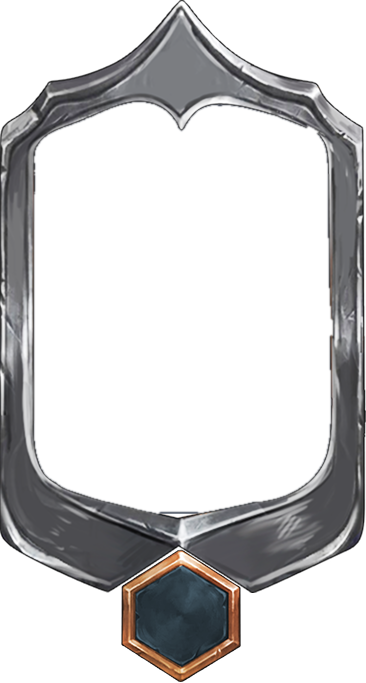
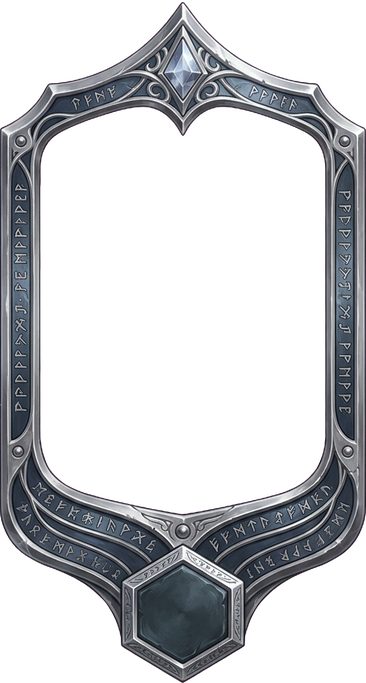
upd(web): rich common frame, legendary glow and skin splash art on the official shop

Changed region(s): [[0.0, 0.0, 1.0, 1.0]]

diff --git a/ld/index.html b/ld/index.html
@@ -152,6 +152,42 @@ section { position: relative; padding: 72px 0 40px; scroll-margin-top: 72px; }
 .top3 .skin .gcard { width: min(100%, 168px); } .top3 .skin.leg .gcard { width: min(100%, 196px); }
 .commons .skin .gcard { width: min(100%, 112px); }
 .skin:hover .gcard { transform: translateY(-5px); }
+.skin[role="button"] { cursor: pointer; }
+.skin[role="button"]:focus-visible { outline: none; } .skin[role="button"]:focus-visible .nm { text-decoration: underline; text-underline-offset: 4px; }
+.skin .see { margin-top: 6px; font: 12px var(--body); color: var(--copper-hi); opacity: 0; transition: opacity .2s; }
+.skin:hover .see, .skin:focus-visible .see { opacity: 1; }
+/* легендарный: за рамкой медленно вращаются золотые лучи и дышит свечение, по картинке пробегает блик */
+.skin.leg .gcard { isolation: isolate; }
+.skin.leg .gcard::before { content: ''; position: absolute; left: 50%; top: 44%; width: 210%; aspect-ratio: 1; z-index: -1; pointer-events: none;
+  background: url(img/fx_rays_gold.png) center / contain no-repeat; animation: legrays 26s linear infinite; opacity: 1; filter: brightness(1.35); }
+.skin.leg .gcard::after { content: ''; position: absolute; left: 50%; top: 46%; width: 150%; aspect-ratio: 1; z-index: -1; pointer-events: none; border-radius: 50%;
+  background: radial-gradient(closest-side, rgba(255,210,110,.85), rgba(255,150,40,.32) 55%, transparent 76%); animation: legglow 2.8s ease-in-out infinite alternate; }
+.skin.leg .gcard .fr { animation: legrim 2.8s ease-in-out infinite alternate; }
+@keyframes legrim { from { filter: drop-shadow(0 0 6px rgba(255,200,90,.7)) drop-shadow(0 10px 18px rgba(0,0,0,.7)); } to { filter: drop-shadow(0 0 14px rgba(255,205,100,1)) drop-shadow(0 0 30px rgba(255,150,40,.7)); } }
+.skin.leg .gcard .art > i::before { content: ''; position: absolute; inset: -20% -70%; z-index: 2; pointer-events: none; mix-blend-mode: screen;
+  background: linear-gradient(105deg, transparent 42%, rgba(255,226,160,.45) 48%, rgba(255,250,235,.9) 50%, rgba(255,226,160,.45) 52%, transparent 58%);
+  transform: translateX(-60%); animation: legshine 5s ease-in-out infinite; }
+@keyframes legrays { from { transform: translate(-50%, -50%) rotate(0); } to { transform: translate(-50%, -50%) rotate(360deg); } }
+@keyframes legglow { from { opacity: .5; transform: translate(-50%, -50%) scale(.9); } to { opacity: 1; transform: translate(-50%, -50%) scale(1.06); } }
+@keyframes legshine { 0%, 55% { transform: translateX(-60%); } 80%, 100% { transform: translateX(60%); } }
+
+/* ---------- окно с артом скина ---------- */
+.sk-overlay { position: fixed; inset: 0; z-index: 110; display: grid; place-items: center; padding: 16px; background: rgba(3,5,9,.86); opacity: 0; transition: opacity .25s; }
+.sk-overlay.open { opacity: 1; }
+.sk-modal { position: relative; width: min(940px, 100%); max-height: calc(100vh - 32px); overflow: auto; border: 26px solid transparent; border-image: url(img/ld_window.png) 110 fill / 38px stretch;
+  transform: translateY(14px) scale(.98); transition: transform .3s; }
+.sk-overlay.open .sk-modal { transform: none; }
+.sk-modal[data-r="legendary"] { filter: drop-shadow(0 0 22px rgba(242,193,78,.45)); }
+.sk-art { position: relative; aspect-ratio: 16 / 9; margin: -6px -6px 0; overflow: hidden; background: #0b0f16; }
+.sk-art img { width: 100%; height: 100%; object-fit: cover; display: block; animation: skzoom 12s ease-out both; }
+.sk-art::after { content: ''; position: absolute; inset: 0; background: linear-gradient(0deg, rgba(14,17,24,.95) 0%, rgba(14,17,24,0) 34%); pointer-events: none; }
+@keyframes skzoom { from { transform: scale(1.08); } to { transform: scale(1); } }
+.sk-info { position: relative; display: flex; align-items: flex-end; justify-content: space-between; gap: 18px; flex-wrap: wrap; margin-top: -86px; padding: 0 14px 6px; }
+.sk-info .rar { font: 13px var(--body); letter-spacing: .14em; text-transform: uppercase; }
+.sk-info h3 { margin: 4px 0 4px; font: 40px/1 var(--display); font-weight: 400; color: #fff6e0; text-shadow: 0 2px 0 #000, 0 0 18px rgba(0,0,0,.8); }
+.sk-info p { margin: 0; color: #d7d0c0; font-size: 15px; text-shadow: 0 1px 2px #000; }
+.sk-close { position: absolute; right: 2px; top: 2px; z-index: 3; width: 38px; height: 38px; border-radius: 50%; border: 1px solid rgba(214,189,143,.4); cursor: pointer; font-size: 24px; line-height: 1; color: var(--cream); background: rgba(6,8,13,.75); }
+@media (prefers-reduced-motion: reduce) { .skin.leg .gcard::before, .skin.leg .gcard::after, .skin.leg .gcard .art > i::before, .skin.leg .gcard .fr, .sk-art img { animation: none; } }
 .skin .nm { margin-top: 10px; font: 17px/1.2 var(--display); color: #fff6e0; }
 .commons .skin .nm { font-size: 15px; }
 .skin .un { margin-top: 2px; font-size: 13px; color: var(--muted); }
@@ -186,8 +222,9 @@ section { position: relative; padding: 72px 0 40px; scroll-margin-top: 72px; }
 .gcard[data-r="legendary"] { --cp: polygon(41.9% 17.2%, 30.7% 18.5%, 24.7% 19.7%, 20.3% 21.0%, 17.8% 22.2%, 15.6% 23.5%, 14.2% 24.7%, 13.2% 26.0%, 12.6% 27.2%, 12.1% 28.5%, 12.1% 29.8%, 11.8% 31.0%, 11.8% 32.3%, 11.8% 33.5%, 11.8% 34.8%, 11.8% 36.0%, 11.8% 37.3%, 11.8% 38.5%, 11.8% 39.8%, 11.8% 41.1%, 11.8% 42.3%, 11.8% 43.6%, 11.8% 44.8%, 12.1% 46.1%, 11.8% 47.3%, 11.8% 48.6%, 11.5% 49.9%, 11.5% 51.1%, 11.8% 52.4%, 11.8% 53.6%, 11.5% 54.9%, 11.5% 56.1%, 11.5% 57.4%, 11.8% 58.6%, 11.8% 59.9%, 12.1% 61.2%, 12.6% 62.4%, 13.7% 63.7%, 15.1% 64.9%, 17.3% 66.2%, 20.5% 67.4%, 23.8% 68.7%, 27.4% 69.9%, 33.4% 71.4%, 66.0% 71.4%, 73.2% 69.9%, 76.4% 68.7%, 80.0% 67.4%, 83.0% 66.2%, 85.2% 64.9%, 86.3% 63.7%, 87.4% 62.4%, 87.9% 61.2%, 88.2% 59.9%, 87.7% 58.6%, 87.7% 57.4%, 87.7% 56.1%, 87.7% 54.9%, 87.7% 53.6%, 87.7% 52.4%, 88.2% 51.1%, 88.5% 49.9%, 88.5% 48.6%, 88.5% 47.3%, 88.5% 46.1%, 88.2% 44.8%, 88.2% 43.6%, 88.2% 42.3%, 88.2% 41.1%, 88.2% 39.8%, 88.2% 38.5%, 88.2% 37.3%, 88.2% 36.0%, 88.2% 34.8%, 88.2% 33.5%, 88.2% 32.3%, 88.2% 31.0%, 87.9% 29.8%, 87.7% 28.5%, 87.4% 27.2%, 86.8% 26.0%, 85.8% 24.7%, 84.4% 23.5%, 81.9% 22.2%, 79.5% 21.0%, 75.1% 19.7%, 69.3% 18.5%, 57.3% 17.2%); }
 .gcard[data-r="epic"] { --rc: rgba(180,107,255,.55); }
 .gcard[data-r="epic"] { --cp: polygon(36.1% 14.2%, 27.9% 15.7%, 21.9% 17.0%, 15.0% 18.4%, 11.5% 19.9%, 9.8% 21.2%, 9.3% 22.7%, 9.0% 24.2%, 9.0% 25.5%, 9.0% 26.9%, 9.0% 28.4%, 9.0% 29.7%, 9.0% 31.2%, 9.3% 32.7%, 9.3% 34.0%, 9.3% 35.4%, 9.3% 36.9%, 8.7% 38.2%, 8.7% 39.7%, 8.7% 41.1%, 8.7% 42.5%, 8.7% 43.9%, 8.7% 45.4%, 8.7% 46.9%, 8.7% 48.2%, 8.7% 49.6%, 8.7% 51.1%, 8.7% 52.4%, 8.7% 53.9%, 8.7% 55.3%, 8.7% 56.7%, 8.7% 58.1%, 8.7% 59.6%, 8.7% 60.9%, 9.0% 62.4%, 9.3% 63.8%, 9.8% 65.2%, 9.8% 66.6%, 10.9% 68.1%, 12.8% 69.4%, 16.1% 70.9%, 22.7% 72.3%, 31.7% 73.6%, 46.2% 75.3%, 55.7% 75.3%, 68.6% 73.6%, 78.7% 72.3%, 88.5% 70.9%, 86.9% 69.4%, 88.8% 68.1%, 90.7% 66.6%, 91.0% 65.2%, 91.5% 63.8%, 91.8% 62.4%, 91.8% 60.9%, 91.8% 59.6%, 91.5% 58.1%, 91.5% 56.7%, 91.8% 55.3%, 91.8% 53.9%, 91.8% 52.4%, 91.8% 51.1%, 91.8% 49.6%, 91.8% 48.2%, 91.3% 46.9%, 91.0% 45.4%, 91.0% 43.9%, 91.0% 42.5%, 91.5% 41.1%, 91.5% 39.7%, 91.5% 38.2%, 91.5% 36.9%, 91.3% 35.4%, 91.3% 34.0%, 91.3% 32.7%, 91.3% 31.2%, 91.3% 29.7%, 91.3% 28.4%, 91.3% 26.9%, 91.3% 25.5%, 91.0% 24.2%, 90.7% 22.7%, 90.4% 21.2%, 89.1% 19.9%, 86.1% 18.4%, 80.3% 17.0%, 73.8% 15.7%, 41.3% 14.2%); }
-.gcard[data-r="common"] { --rc: rgba(195,201,211,.35); }
-.gcard[data-r="common"] { --cp: polygon(36.1% 14.2%, 27.6% 15.7%, 21.0% 17.1%, 14.2% 18.6%, 10.7% 20.1%, 8.5% 21.5%, 7.9% 22.8%, 8.2% 24.3%, 8.2% 25.8%, 8.2% 27.2%, 7.9% 28.7%, 7.9% 30.2%, 7.9% 31.6%, 7.9% 33.1%, 7.9% 34.6%, 7.9% 36.0%, 7.9% 37.5%, 7.9% 38.8%, 7.9% 40.3%, 7.9% 41.7%, 7.9% 43.2%, 7.9% 44.7%, 7.9% 46.1%, 7.9% 47.6%, 7.9% 49.0%, 7.9% 50.5%, 7.9% 52.0%, 7.9% 53.3%, 7.9% 54.8%, 7.9% 56.2%, 7.9% 57.7%, 7.9% 59.2%, 7.9% 60.6%, 7.9% 62.1%, 7.9% 63.5%, 8.2% 65.0%, 8.7% 66.5%, 9.6% 67.9%, 10.7% 69.3%, 13.4% 70.7%, 17.8% 72.2%, 25.7% 73.6%, 36.6% 75.1%, 48.1% 76.7%, 49.2% 76.7%, 61.5% 75.1%, 75.7% 73.6%, 81.7% 72.2%, 85.2% 70.7%, 87.7% 69.3%, 89.3% 67.9%, 90.4% 66.5%, 91.0% 65.0%, 91.5% 63.5%, 91.5% 62.1%, 91.8% 60.6%, 91.8% 59.2%, 91.8% 57.7%, 91.8% 56.2%, 91.8% 54.8%, 91.5% 53.3%, 91.5% 52.0%, 91.5% 50.5%, 92.3% 49.0%, 92.3% 47.6%, 91.8% 46.1%, 91.5% 44.7%, 91.5% 43.2%, 91.3% 41.7%, 91.3% 40.3%, 91.3% 38.8%, 91.3% 37.5%, 91.3% 36.0%, 91.0% 34.6%, 91.0% 33.1%, 91.0% 31.6%, 91.0% 30.2%, 91.0% 28.7%, 91.0% 27.2%, 91.0% 25.8%, 91.0% 24.3%, 90.7% 22.8%, 90.2% 21.5%, 90.2% 20.1%, 87.7% 18.6%, 82.5% 17.1%, 76.8% 15.7%, 39.9% 14.2%); }
+/* обычная рамка — богаче, серебро с рунами (нарисована по игровой обычной), окно чуть шире */
+.gcard[data-r="common"] { --rc: rgba(195,201,211,.35); --in: 14% 9.5% 23% 9%; }
+.gcard[data-r="common"] { --cp: polygon(36.6% 15.1%, 26.5% 16.5%, 19.9% 17.9%, 14.8% 19.3%, 12.0% 20.8%, 10.7% 22.1%, 10.1% 23.6%, 10.1% 24.9%, 10.1% 26.4%, 9.8% 27.8%, 9.8% 29.1%, 9.8% 30.6%, 9.8% 32.1%, 9.8% 33.4%, 9.8% 34.8%, 9.8% 36.2%, 9.8% 37.6%, 9.8% 39.1%, 9.8% 40.4%, 9.8% 41.9%, 9.8% 43.3%, 9.8% 44.7%, 9.8% 46.1%, 9.8% 47.4%, 9.8% 48.9%, 9.8% 50.4%, 9.8% 51.7%, 9.8% 53.1%, 9.8% 54.6%, 9.8% 55.9%, 9.8% 57.4%, 9.8% 58.7%, 9.8% 60.2%, 9.8% 61.6%, 9.8% 63.0%, 10.1% 64.4%, 10.4% 65.9%, 11.2% 67.2%, 12.6% 68.7%, 14.8% 70.0%, 18.0% 71.4%, 24.6% 72.9%, 34.7% 74.2%, 48.6% 75.8%, 51.4% 75.8%, 65.3% 74.2%, 75.4% 72.9%, 82.0% 71.4%, 85.2% 70.0%, 87.4% 68.7%, 88.8% 67.2%, 89.6% 65.9%, 89.9% 64.4%, 89.9% 63.0%, 89.9% 61.6%, 89.9% 60.2%, 89.9% 58.7%, 89.9% 57.4%, 89.9% 55.9%, 89.9% 54.6%, 89.9% 53.1%, 89.9% 51.7%, 89.9% 50.4%, 89.9% 48.9%, 89.9% 47.4%, 89.9% 46.1%, 89.9% 44.7%, 89.9% 43.3%, 89.9% 41.9%, 89.9% 40.4%, 89.9% 39.1%, 89.9% 37.6%, 89.9% 36.2%, 89.9% 34.8%, 89.9% 33.4%, 89.9% 32.1%, 89.9% 30.6%, 89.9% 29.1%, 89.9% 27.8%, 89.9% 26.4%, 89.9% 24.9%, 89.9% 23.6%, 89.1% 22.1%, 87.7% 20.8%, 85.2% 19.3%, 80.1% 17.9%, 73.5% 16.5%, 63.4% 15.1%); }
 .gcard[data-r="rare"] { --rc: rgba(224,161,106,.45); }
 .gcard[data-r="rare"] { --cp: polygon(38.0% 14.2%, 28.1% 15.7%, 22.4% 17.0%, 15.3% 18.4%, 11.5% 19.9%, 9.3% 21.4%, 8.5% 22.7%, 8.5% 24.2%, 8.5% 25.6%, 8.5% 27.1%, 8.5% 28.4%, 8.5% 29.9%, 8.5% 31.3%, 8.5% 32.8%, 8.5% 34.1%, 8.5% 35.6%, 8.5% 37.0%, 8.5% 38.5%, 8.5% 39.8%, 8.5% 41.3%, 8.5% 42.8%, 8.5% 44.2%, 8.5% 45.5%, 8.2% 47.0%, 8.2% 48.5%, 8.2% 49.9%, 8.2% 51.2%, 8.2% 52.7%, 8.2% 54.2%, 8.2% 55.6%, 8.2% 57.0%, 8.2% 58.4%, 8.2% 59.9%, 8.2% 61.3%, 8.2% 62.7%, 8.5% 64.1%, 8.7% 65.6%, 9.3% 67.1%, 10.1% 68.4%, 12.0% 69.8%, 15.6% 71.3%, 21.3% 72.8%, 30.3% 74.1%, 53.0% 75.7%, 53.3% 75.7%, 69.4% 74.1%, 79.8% 72.8%, 84.4% 71.3%, 87.2% 69.8%, 89.3% 68.4%, 90.4% 67.1%, 91.3% 65.6%, 91.5% 64.1%, 91.8% 62.7%, 91.8% 61.3%, 92.1% 59.9%, 91.5% 58.4%, 91.5% 57.0%, 92.1% 55.6%, 91.8% 54.2%, 91.8% 52.7%, 91.8% 51.2%, 91.8% 49.9%, 91.8% 48.5%, 91.8% 47.0%, 91.5% 45.5%, 91.5% 44.2%, 91.0% 42.8%, 91.5% 41.3%, 91.5% 39.8%, 91.5% 38.5%, 91.5% 37.0%, 91.5% 35.6%, 91.5% 34.1%, 91.3% 32.8%, 91.3% 31.3%, 91.3% 29.9%, 91.3% 28.4%, 91.3% 27.1%, 91.3% 25.6%, 91.3% 24.2%, 91.0% 22.7%, 90.4% 21.4%, 88.8% 19.9%, 85.5% 18.4%, 79.2% 17.0%, 71.9% 15.7%, 38.8% 14.2%); }
 
@@ -290,6 +327,8 @@ footer a:hover { color: var(--cream); }
   .commons .skin:last-child:nth-child(3n+1) { grid-column: 2; }   /* седьмой обычный — по центру последнего ряда */
   .skin .nm { font-size: 15px; } .skin .un { font-size: 12px; } .skin .rar { font-size: 11px; letter-spacing: .06em; }
   .subh { font-size: 22px; }
+  .sk-modal { border-width: 18px; border-image-width: 28px; } .sk-info { margin-top: 10px; padding: 0 4px 4px; } .sk-info h3 { font-size: 30px; } .sk-art::after { display: none; }
+  .skin .see { display: none; }
   footer .wrap { grid-template-columns: 1fr; }
 }
 @media (prefers-reduced-motion: reduce) { .stage .pk { animation: none; } html { scroll-behavior: auto; } }
@@ -359,7 +398,7 @@ footer a:hover { color: var(--cream); }
 
       <div class="sub" id="pass-skins">
         <h3 class="subh">Какие скины выпадают из сундуков</h3>
-        <p class="lede">Сундуки со скинами — на 1, 4, 6, 10, 20, 30, 40 и 50 уровнях. В каждом один из 10 скинов сезона.</p>
+        <p class="lede">Сундуки со скинами — на 1, 4, 6, 10, 20, 30, 40 и 50 уровнях. В каждом один из 10 скинов сезона. Нажми на скин, чтобы посмотреть его арт.</p>
         <div class="odds" id="odds"></div>
         <div class="drops"><div class="top3" id="top3"></div><div class="commons" id="commons"></div></div>
         <div class="rules">
@@ -414,6 +453,17 @@ footer a:hover { color: var(--cream); }
     <div class="legal">© 2026 Legions Defense · Макет: цены и тексты черновые</div>
   </div>
 </footer>
+
+<div class="sk-overlay" id="skinView" hidden>
+  <div class="sk-modal" role="dialog" aria-modal="true" aria-labelledby="skName">
+    <button class="sk-close" type="button" aria-label="Закрыть">×</button>
+    <div class="sk-art"><img id="skArt" alt=""></div>
+    <div class="sk-info">
+      <div><div class="rar" id="skRar"></div><h3 id="skName"></h3><p id="skDesc"></p></div>
+      <button class="btn copper lg" data-buy="bundle:bp">Купить премиум</button>
+    </div>
+  </div>
+</div>
 
 <script src="shared/data.js"></script>
 <script>
@@ -496,10 +546,30 @@ const pic = img => `<img src="img/${img}.png" alt="" loading="lazy">`;
 const count = r => POOL.filter(x => x.r === r).length;
 document.getElementById('odds').innerHTML = Object.entries(R).map(([k, v]) =>
   `<span style="--c:${v.color}"><i></i>${v.label} <b>${v.chance}%</b><small>${count(k) === 1 ? '1 скин' : count(k) + ' скинов'}</small></span>`).join('');
-const skin = x => `<article class="skin${x.r === 'legendary' ? ' leg' : ''}">${card(pic(x.img), x.r)}
-  <div class="nm">${x.name}</div>${x.unit !== x.name ? `<div class="un">для юнита ${x.unit}</div>` : ''}<div class="rar" style="color:${R[x.r].color}">${R[x.r].label}</div></article>`;
+const skin = (x, i) => `<article class="skin${x.r === 'legendary' ? ' leg' : ''}" role="button" tabindex="0" data-skin="${POOL.indexOf(x)}" aria-label="${x.name}: показать арт скина">${card(pic(x.img), x.r)}
+  <div class="nm">${x.name}</div>${x.unit !== x.name ? `<div class="un">для юнита ${x.unit}</div>` : ''}<div class="rar" style="color:${R[x.r].color}">${R[x.r].label}</div><div class="see">Смотреть арт</div></article>`;
 document.getElementById('top3').innerHTML = POOL.filter(x => x.r !== 'common').map(skin).join('');
 document.getElementById('commons').innerHTML = POOL.filter(x => x.r === 'common').map(skin).join('');
+
+// клик по скину — большой арт
+const view = document.getElementById('skinView');
+let lastFocus = null;
+function openSkin(i) {
+  const x = POOL[i], r = R[x.r];
+  view.querySelector('.sk-modal').dataset.r = x.r;
+  const art = document.getElementById('skArt'); art.src = `img/${x.img.replace('s1_skin_', 'splash_')}.jpg`; art.alt = `${x.name} — арт скина`;
+  art.style.animation = 'none'; void art.offsetWidth; art.style.animation = '';
+  const rar = document.getElementById('skRar'); rar.textContent = `${r.label} · шанс ${r.chance}%`; rar.style.color = r.color;
+  document.getElementById('skName').textContent = x.name;
+  document.getElementById('skDesc').textContent = `Скин для юнита ${x.unit}. Выпадает из сундуков Battle Pass.`;
+  lastFocus = document.activeElement; view.hidden = false;
+  setTimeout(() => view.classList.add('open'), 16); view.querySelector('.sk-close').focus();
+}
+function closeSkin() { view.classList.remove('open'); setTimeout(() => { view.hidden = true; }, 250); if (lastFocus) lastFocus.focus(); }
+document.getElementById('pass-skins').addEventListener('click', e => { const c = e.target.closest('[data-skin]'); if (c) openSkin(+c.dataset.skin); });
+document.getElementById('pass-skins').addEventListener('keydown', e => { const c = e.target.closest('[data-skin]'); if (c && (e.key === 'Enter' || e.key === ' ')) { e.preventDefault(); openSkin(+c.dataset.skin); } });
+view.addEventListener('click', e => { if (e.target === view || e.target.closest('.sk-close')) closeSkin(); if (e.target.closest('[data-buy]')) closeSkin(); });
+document.addEventListener('keydown', e => { if (e.key === 'Escape' && !view.hidden) closeSkin(); });
 
 // награды без своей иконки в игре — простые значки
 const SVG = {
